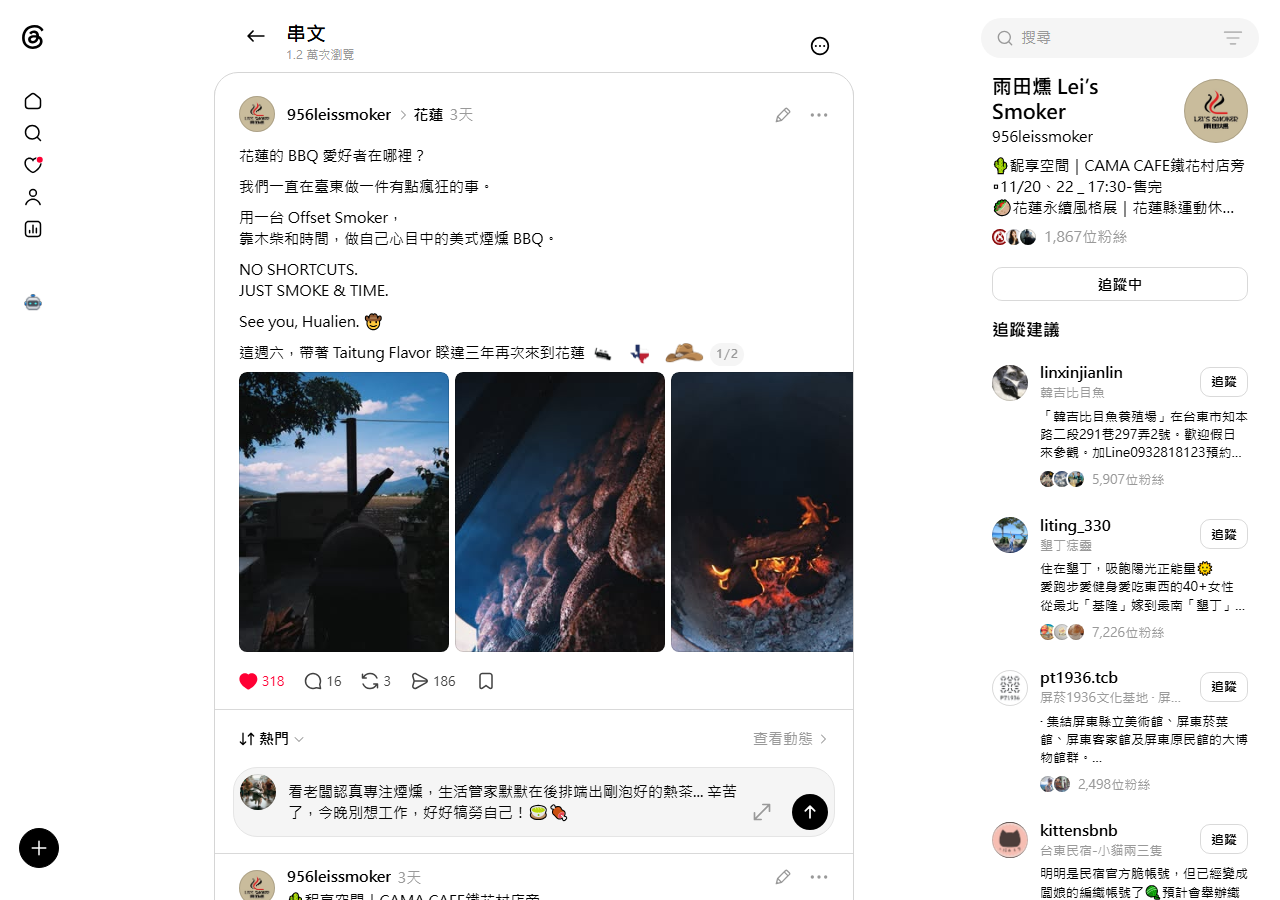
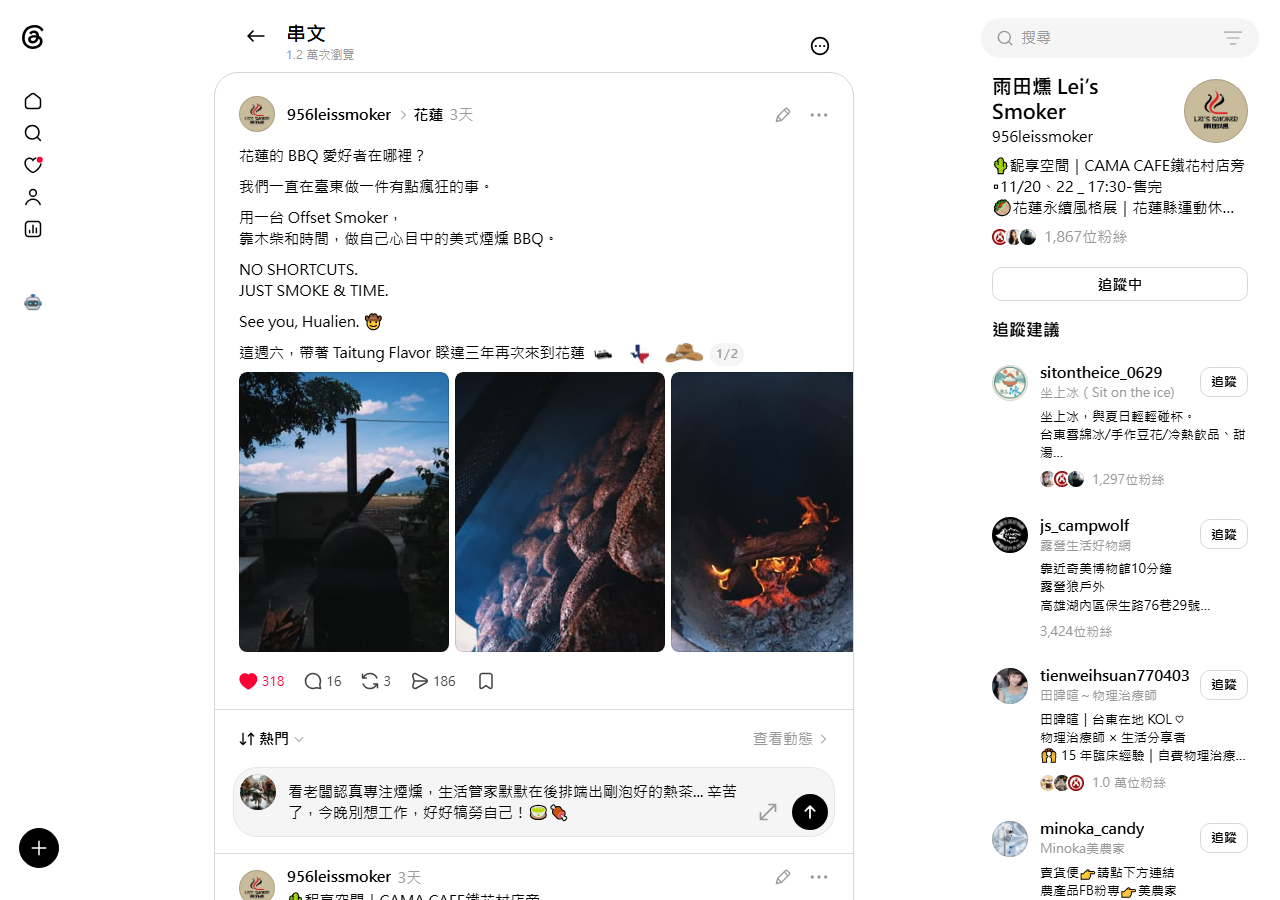
feat(threads): complete slot 2 (K-015) Saturday morning market walk, advance cycle to 49, update schedule

Changed region(s): [[0.75, 0.7467, 0.9688, 1.0], [0.75, 0.4044, 0.9688, 0.7156]]

diff --git a/00-00_Gamification_Engine/Office_of_the_Operative_Kage/01_Cognitive_Log/01_Experiences_and_Evidence.md b/00-00_Gamification_Engine/Office_of_the_Operative_Kage/01_Cognitive_Log/01_Experiences_and_Evidence.md
@@ -626,3 +626,11 @@
 * **真對話明細**：無
 * **自省反思**：貼文「晨間漫步・台東生活微觀篇 (對照組)」成功交付，首回覆橋接已點火。 ； 目前尚無 10 字以上真對話回覆，持續以生活白描與首回覆款待維持自然互動。
 * **閉環簽章**：經 atom-kage-walk-reflector 實時自省入庫。
+
+### 🐾 【漫遊返航實測紀錄 · 2026-11-21 10:33:07】
+* **標的貼文**：`18454939747120408` ｜ **公開網址**：https://www.threads.com/@hellotaitung/post/Df_KlFQE6-V
+* **題材標題**：上午小憩・一杯熱水篇
+* **遙測指標**：Views=0 ｜ Likes=0 ｜ 總Replies=1 ｜ Reposts=0 ｜ 🎯真對話回覆=0 則
+* **真對話明細**：無
+* **自省反思**：貼文「上午小憩・一杯熱水篇」成功交付，首回覆橋接已點火。 ； 目前尚無 10 字以上真對話回覆，持續以生活白描與首回覆款待維持自然互動。
+* **閉環簽章**：經 atom-kage-walk-reflector 實時自省入庫。
